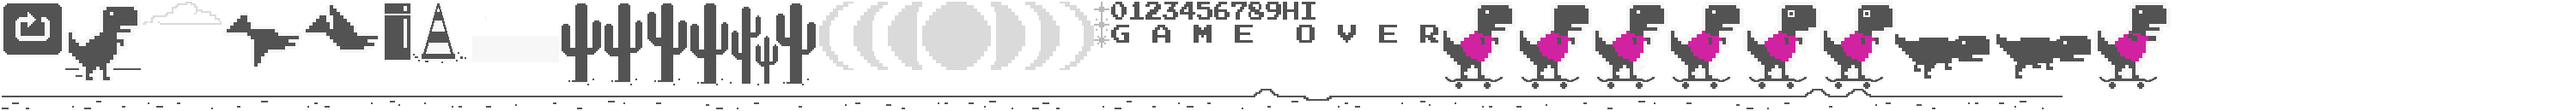
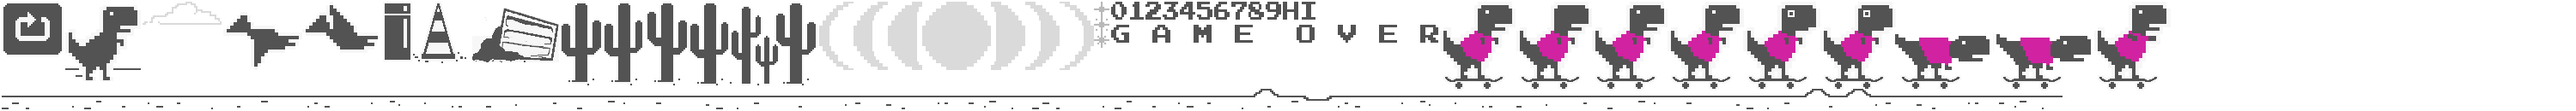
skate + obstacles

Changed region(s): [[0.713, 0.3385, 0.806, 0.8], [0.186, 0.0923, 0.217, 0.5538]]

diff --git a/index.css b/index.css
@@ -1,7 +1,3 @@
-/* Copyright 2013 The Chromium Authors. All rights reserved.
- * Use of this source code is governed by a BSD-style license that can be
- * found in the LICENSE file. */
-
 html, body {
   padding: 0;
   margin: 0;
@@ -24,6 +20,9 @@ html, body {
   display: none;
 }
 
+.text {
+  
+}
 
 /* Offline page */
 
@@ -65,6 +64,7 @@ html, body {
   width: 100vw;
   z-index: 1;
 }
+
 
 #offline-resources {
   display: none;

diff --git a/index.js b/index.js
@@ -2176,7 +2176,7 @@
     HorizonLine.dimensions = {
         WIDTH: 600,
         HEIGHT: 12,
-        YPOS: 127
+        YPOS: 122
     };
 
 
